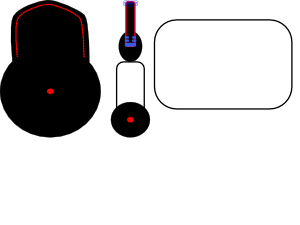
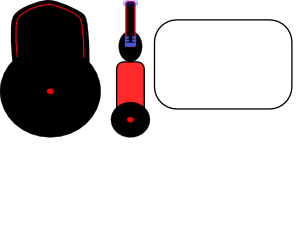
added hexagonal arena and refactored code.

Changed region(s): [[0.39, 0.2489, 0.48, 0.4667]]

diff --git a/src/systems.cpp b/src/systems.cpp
@@ -10,9 +10,10 @@
 void PlayerRenderSystem::update(ex::EntityManager &es, ex::EventManager &events, ex::TimeDelta dt) {
     es.each<Player, Body>([this](ex::Entity entity, Player &player, Body &body){
 
-        auto angle = angle_vec(sf::Vector2i(0,-1), sf::Vector2i(body.direction));
-        auto pos = Application::gamestate->curr_mouse_pos - sf::Vector2i(body.position);
-        auto arm_angle = angle_vec(sf::Vector2i(0,-1), pos);
+        sf::Vector2f ref_vec(0,-1);
+        auto angle = angle_vec(ref_vec, body.direction);
+        auto pos = sf::Vector2f(Application::gamestate->curr_mouse_pos) - body.position;
+        auto arm_angle = angle_vec(ref_vec, pos);
 
         if (Application::gamestate->curr_mouse_pos.x < body.position.x) arm_angle = 360 - arm_angle;
         if (body.direction.x < 0) angle = 360 - angle;
@@ -129,8 +130,12 @@ void ControllableSystem::update(ex::EntityManager &es, ex::EventManager &events,
                     std::cout << "Unknown Action" << std::endl;
                     break;
             }
-            body->position += (10000.0f * acc * (float) dt * (float) dt);
-            body->direction = acc;
+            if (norm(acc)) {
+                acc = acc / norm(acc);
+                std::cout << acc.x << "-" << acc.y << std::endl;
+                body->position += (20000.0f * acc * (float) dt * (float) dt);
+                body->direction = acc;
+            }
         }
     }
 }
@@ -169,11 +174,10 @@ void ColumnRenderSystem::update(ex::EntityManager &es, ex::EventManager &events,
 {
     es.each<Body,CollisionShape,StaticObject>(
         [this](ex::Entity entity, Body &body, CollisionShape &coll, StaticObject &so) {
-            std::cout << body.position.x << " - " << body.position.y << std::endl;
             sf::CircleShape shape(coll.radius);
             shape.setFillColor(sf::Color(0, 0, 0));
             shape.setPosition(body.position.x - coll.radius, body.position.y - coll.radius);
-            shape.setOrigin(body.position.x - coll.radius, body.position.y - coll.radius);
+            //shape.setOrigin(body.position.x - coll.radius, body.position.y - coll.radius);
             target.draw(shape);
         }
     );

diff --git a/src/app.cpp b/src/app.cpp
@@ -10,6 +10,7 @@
 #include "systems.hpp"
 #include "components.hpp"
 #include "player/component.hpp"
+#include "utils.hpp"
 
 namespace ex = entityx;
 
@@ -31,16 +32,18 @@ void init_player (sf::RenderTarget &target, ex::EntityManager &es)
     //player.assign<Renderable>(std::shared_ptr<sf::Shape>(new sf::CircleShape(80,3)));
 }
 
-void init_column(sf::RenderTarget &target, ex::EntityManager &es)
+void init_columns(sf::RenderTarget &target, ex::EntityManager &es)
 {
   auto target_center = sf::Vector2f(target.getSize()) / 2.0f;
   auto angles = {60,120,180,240,300,360};
-  float radius = 300.0f;
+  float radius = (target_center.y - 350) / degree_to_rad(30);
+  //float radius = 500.0f;
   ex::Entity col;
   for (auto const &angle : angles) {
     col = es.create();
-    auto x = target_center.x + radius * std::cos(angle);
-    auto y = target_center.y + radius * std::sin(angle);
+    auto rad = degree_to_rad(angle);
+    auto x = target_center.x + radius * std::cos(rad);
+    auto y = target_center.y + radius * std::sin(rad);
     col.assign<Body>(sf::Vector2f(x,y), sf::Vector2f(10,10));
     col.assign<StaticObject>();
     col.assign<CollisionShape>(50);
@@ -55,7 +58,7 @@ void init_column(sf::RenderTarget &target, ex::EntityManager &es)
 void init_components (sf::RenderTarget &target, ex::EntityManager &es) 
 {
   init_player(target, es);
-  init_column(target, es);
+  init_columns(target, es);
 }
 
 Application::Application() : window()
@@ -70,7 +73,10 @@ Application::Application() : window()
 Application::Application(uint16_t width, uint16_t height) : window()
 {
   Application::gamestate = std::unique_ptr<GameState>(std::move(new GameState()));
-  window.create(sf::VideoMode(width, height), "Guaca");
+  sf::ContextSettings settings;
+  settings.antialiasingLevel = 8;
+
+  window.create(sf::VideoMode(width, height), "Guaca", sf::Style::Default, settings);
   init_systems();
   init_components(window, entities);
 

diff --git a/src/player/components.cpp b/src/player/components.cpp
@@ -11,7 +11,7 @@ Player::Player(){
 
         sf::Rect<int> texRect; 
         if (part == "hat") texRect = {0,0,100,140};
-        else if (part == "right_arm" || part == "left_arm") texRect = {100,0,50,140};
+        else if (part == "right_arm" || part == "left_arm") texRect = {101,0,50,140};
         else texRect = {0,0,200,100};
 
         sprite.setTextureRect(texRect);

diff --git a/include/utils.hpp b/include/utils.hpp
@@ -21,6 +21,13 @@ float norm(T vec)
   return static_cast<float>(std::sqrt(dot(vec,vec)));
 }
 
+const double PI = 3.14159265359;
+ 
+template<typename T>
+float degree_to_rad(T rad) {
+  return static_cast<float>(2*PI*rad/360);
+}
+
 template<typename T>
 inline float angle_vec(T vec1, T vec2)
 {

diff --git a/src/main.cpp b/src/main.cpp
@@ -12,7 +12,7 @@ namespace ex = entityx;
 
 int main(int argc, const char* argv[]) 
 {
-    Application app(2000,800);
+    Application app(2000,1500);
     app.run();
     return 0;
 }
